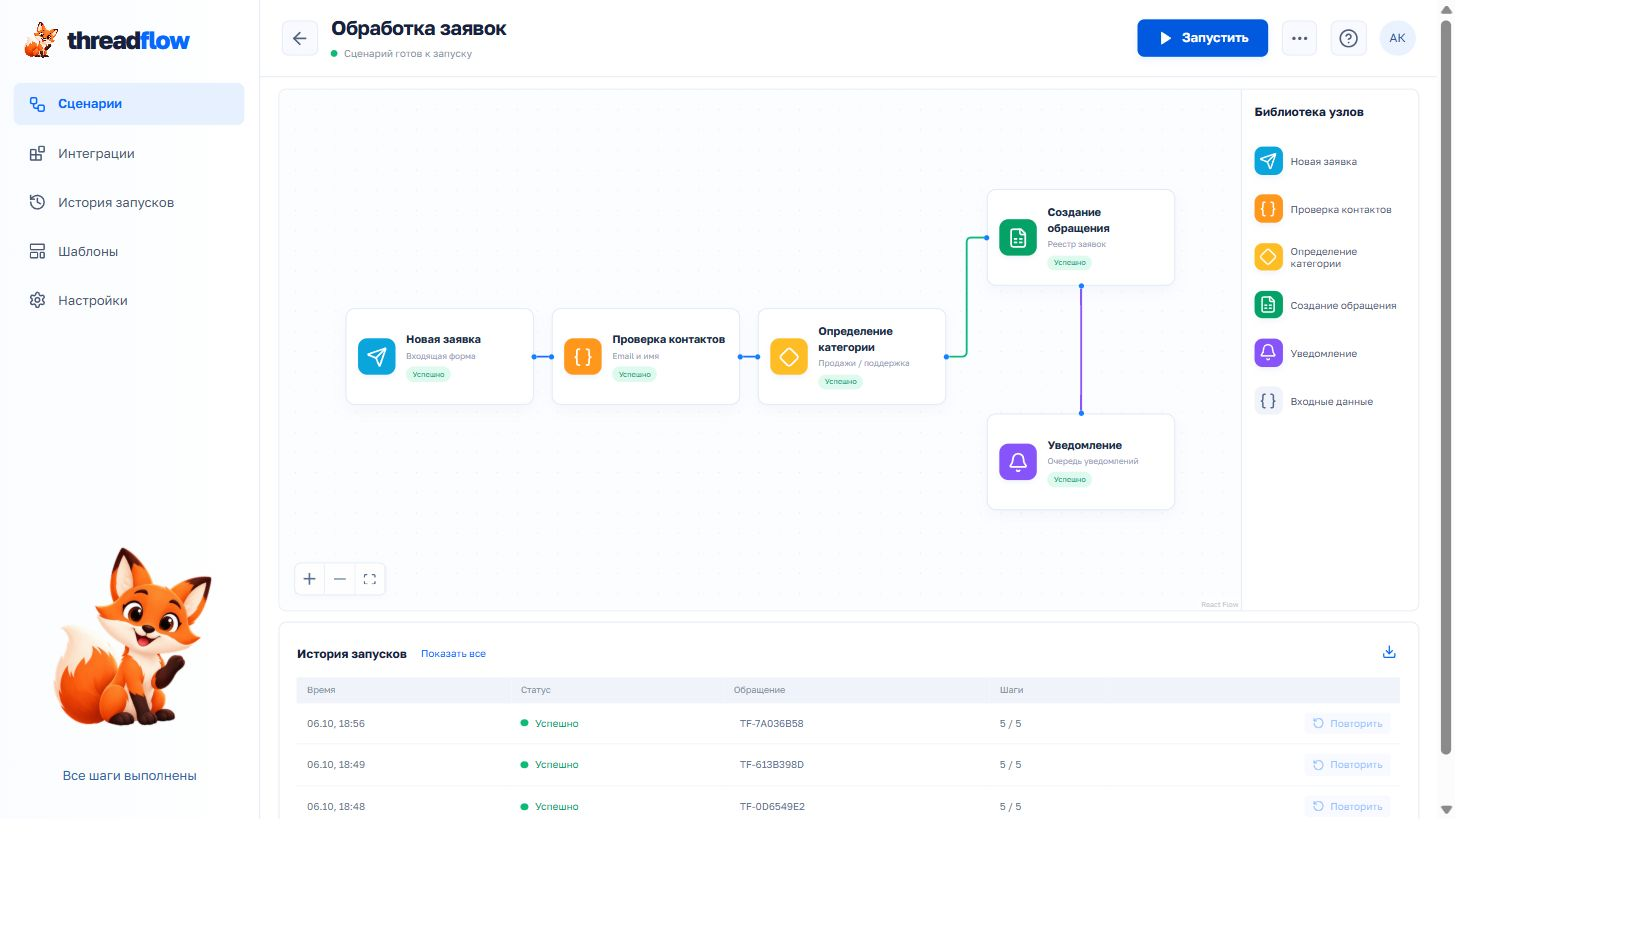
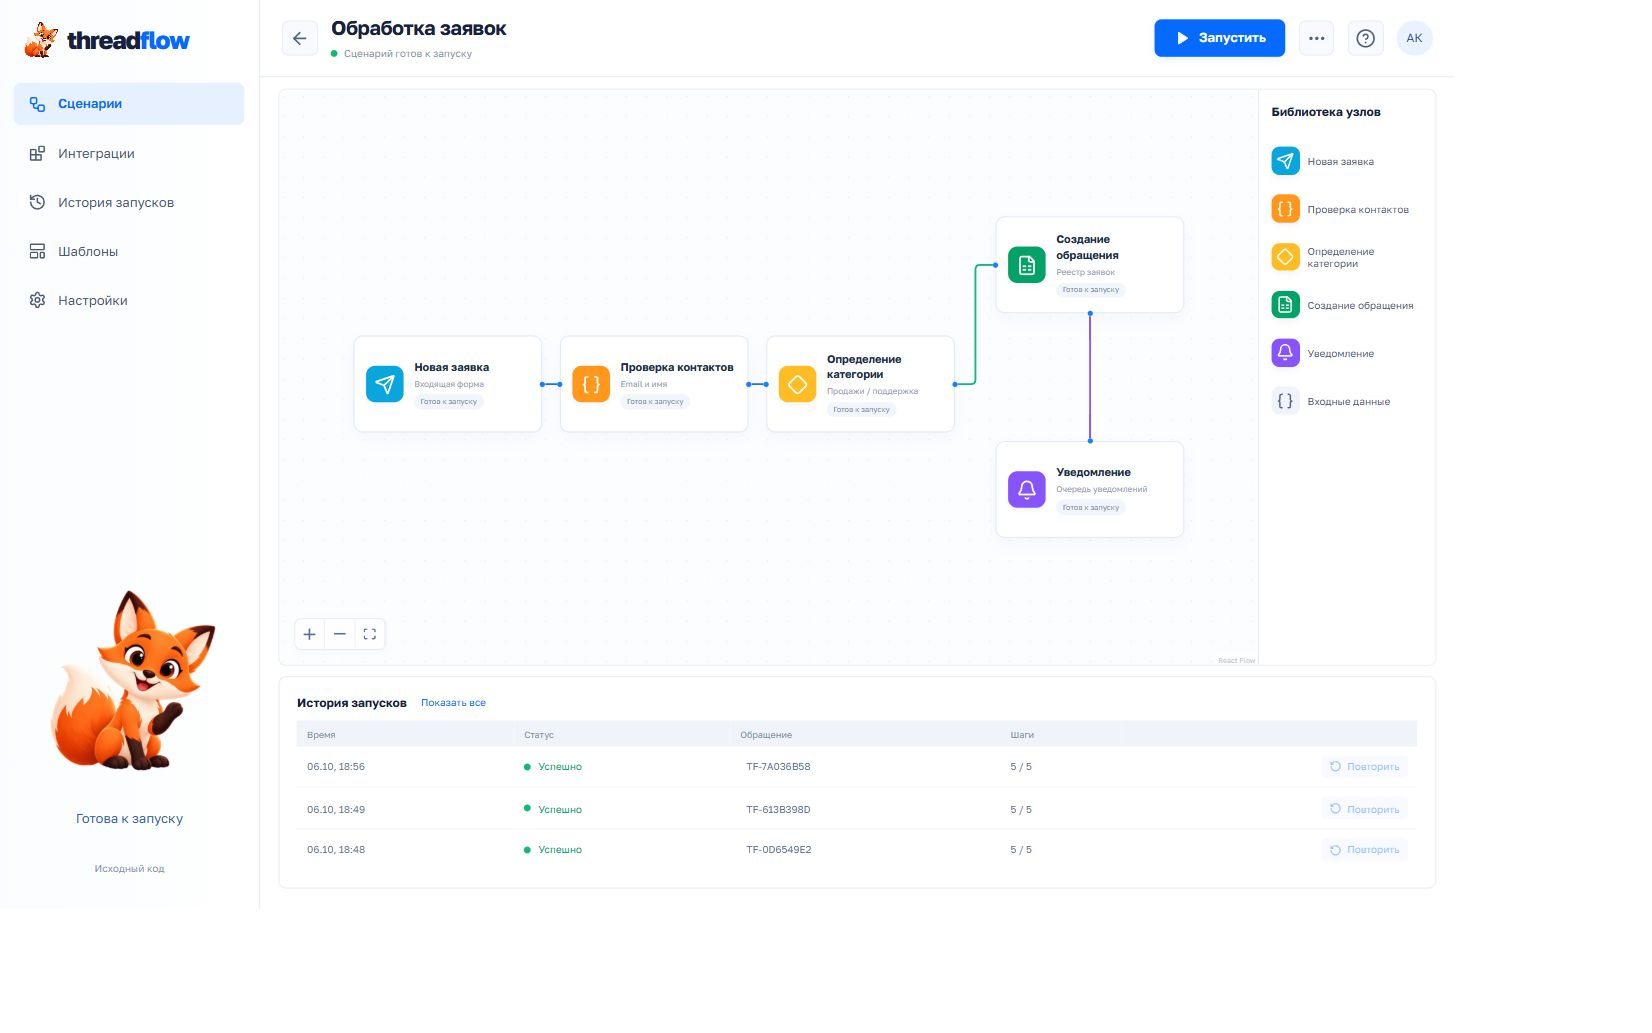
Improve project documentation and refresh clean interface previews

diff --git a/src/styles.css b/src/styles.css
@@ -3,3 +3,5 @@
 @media(min-width:1450px){.tf-editor{min-height:520px}.canvas{min-height:520px}.tf-main{padding:0 18px 20px}.tf-header{margin:0 -18px}.history-panel{padding:18px}}@media(max-width:1050px){.tf-app{grid-template-columns:170px 1fr}.tf-side{padding:20px 10px}.brand{font-size:22px}.brand img{width:28px;height:30px}.tf-editor{grid-template-columns:minmax(0,1fr) 145px}.node-library{padding:13px 8px}.node-library h2{font-size:10px}.tf-header{padding:0 14px}.scenario-title h1{font-size:17px}.avatar{display:none}.mascot img{width:135px}.primary{padding:11px 15px}.library-item{font-size:9px}}@media(max-width:700px){.tf-app{display:block}.tf-side{width:100%;padding:12px;border-right:0;border-bottom:1px solid var(--line);flex-direction:row;align-items:center;gap:12px}.brand{font-size:19px;padding:0;letter-spacing:-.8px}.brand img{height:27px;width:25px;margin-right:5px}.tf-side nav{display:flex;gap:4px;margin-left:auto}.tf-side nav button{padding:8px;font-size:0;gap:0}.tf-side nav button svg{height:16px;width:16px}.mascot,.source-link{display:none}.tf-header{height:76px;gap:7px;padding:0 12px}.scenario-title h1{font-size:15px}.scenario-title span{font-size:8px}.tf-header>.icon:first-child,.tf-header>.icon:nth-last-child(2){display:none}.tf-header .primary{padding:10px;font-size:11px}.tf-main{padding:0 8px 10px}.tf-header{margin:0 -8px}.tf-editor{grid-template-columns:1fr;min-height:450px}.canvas{height:450px;min-height:450px}.node-library{display:none}.history-panel{padding:12px 8px}.history-heading h2{font-size:11px}th,td{padding:8px 5px;font-size:8px}.retry{font-size:0;padding:6px}.retry svg{width:12px}.history-heading button{font-size:9px}}@media(prefers-reduced-motion:reduce){*{transition:none!important;animation:none!important;scroll-behavior:auto!important}}
 
 @media(min-width:1150px){.tf-app{grid-template-columns:min(18vw,260px) minmax(0,1fr)}.tf-side nav button{font-size:13px}.mascot img{width:180px;height:225px}}
+
+html[data-preview],html[data-preview] *{scrollbar-width:none!important}html[data-preview]::-webkit-scrollbar,html[data-preview] *::-webkit-scrollbar{display:none!important}

diff --git a/src/main.tsx b/src/main.tsx
@@ -1,1 +1,1 @@
-import React from 'react';import {createRoot} from 'react-dom/client';import App from './App';import './styles.css';createRoot(document.getElementById('root')!).render(<React.StrictMode><App/></React.StrictMode>);
+import React from 'react';import {createRoot} from 'react-dom/client';import App from './App';import './styles.css';if(new URLSearchParams(window.location.search).has('preview'))document.documentElement.setAttribute('data-preview','');createRoot(document.getElementById('root')!).render(<React.StrictMode><App/></React.StrictMode>);

diff --git a/README.md b/README.md
@@ -1,59 +1,50 @@
 # Threadflow
 
-Executable workflow canvas with durable step results, retries and idempotent business effects.
+Обработка входящих заявок с наглядной схемой и историей запусков. Сервис проверяет контакты, определяет категорию, создаёт обращение и ставит уведомление в локальную очередь.
 
-![Interface](docs/preview.png)
+[![Проверки](https://github.com/famelikolbut5/threadflow/actions/workflows/ci.yml/badge.svg)](https://github.com/famelikolbut5/threadflow/actions/workflows/ci.yml)
 
-[Validation notes](docs/VALIDATION.md) · [Source license](LICENSE)
+![Интерфейс Threadflow](docs/preview.png)
 
-## What it does
+## Возможности
 
-Форма - проверка контактов - категория - обращение в SQLite - локальный outbox. Повтор сбойного шага не создаёт дублей.
+- Входящая форма с именем, email и текстом заявки.
+- Схема из пяти шагов со статусом каждого этапа.
+- Сохранение обращений и результатов выполнения в SQLite.
+- Повтор после сбоя без второго обращения и дублирующего уведомления.
 
-Form - validation - rule classification - SQLite ticket - local notification outbox. Failed steps resume without duplicating tickets.
+## Как устроен проект
 
-Independent portfolio demo, written from scratch. Synthetic examples only. No commercial source, proprietary prompts, client recordings or customer data.
+Результаты шагов сохраняются отдельно. Если отправка уведомления прерывается, повтор продолжает обработку существующего обращения. Для проверки этого поведения в интерфейсе есть управляемый тестовый сбой.
 
-## Run locally
+**Стек:** Python, FastAPI, SQLite, React, TypeScript, React Flow.
 
-Python 3.12, Node 22 and pnpm 11.19.0:
+## Структура
 
-```sh
-python -m venv .venv
-# Windows: .venv\Scripts\activate
-# Linux/macOS: source .venv/bin/activate
-pip install -r requirements.txt
-pnpm install --frozen-lockfile
-pnpm build
-uvicorn backend.app:app --host 127.0.0.1 --port 8000
+```text
+backend/        выполнение шагов, история и защита от повторов
+src/            интерфейс, состояния и работа с API
+public/         иллюстрация персонажа и статические материалы
+tests/          проверки поведения серверной части
+docs/           запуск, проверки и материалы проекта
+Dockerfile      сборка интерфейса и серверного приложения
+compose.yml     локальный запуск с сохранением данных
 ```
 
-Open http://127.0.0.1:8000. For UI development: `pnpm dev` (API proxy expects port 8000).
+## Запуск
+
+Нужны Git и Docker. Каждый проект запускается отдельно на порту 8000.
 
 ```sh
+git clone https://github.com/famelikolbut5/threadflow.git
+cd threadflow
 docker compose up --build
 ```
 
-Local-only binding is deliberate. These demos have no user authentication and are not hardened multi-user hosted services.
+Откройте [localhost:8000](http://localhost:8000). [Запуск без Docker и настройки](docs/RUNNING.md).
 
-## Checks and delivery
+## Состав демоверсии
 
-```sh
-pip install pytest httpx
-pytest -q
-pnpm build
-```
+Уведомления сохраняются в локальной очереди outbox. Сценарий состоит из пяти фиксированных шагов; блоки на холсте можно перемещать для удобства просмотра.
 
-GitHub Actions runs backend checks, TypeScript/build checks and Docker image build. Model credentials are never included in CI or a public image.
-
-## Boundaries
-
-Порядок обработки фиксирован. Холст позволяет перемещать блоки. Внешняя доставка уведомлений не настроена.
-
-The full application runs locally with its Python backend. A static build alone cannot transcribe audio, execute workflows, render video or call Codex.
-
-## Stack and attribution
-
-Python / FastAPI / React / TypeScript / Vite / Motion / Lucide. React Flow powers the editable workflow canvas. Google Fonts: Golos Text (SIL OFL). All third-party dependencies retain their own licenses. See `THIRD_PARTY.md`.
-
-MIT for independently authored source. Asset provenance and actual validation: `docs/VALIDATION.md`.
+[Проверки и результаты](docs/VALIDATION.md) | [Лицензии зависимостей и материалов](THIRD_PARTY.md) | [MIT](LICENSE)

diff --git a/docs/VALIDATION.md b/docs/VALIDATION.md
@@ -1,13 +1,20 @@
-# Validation - 2026-10-06
+# Проверки
 
-Windows / Python 3.12 / Node 22 / pnpm 11.19.0. TypeScript checks and production builds passed locally.
-All examples use synthetic data. Local tests do not imply successful hosted CI or quality on real customer data.
+Проверено 6 октября 2026 на Windows: Python 3.12, Node.js 22 и pnpm 11.19.0.
 
-3 tests passed. Covers same-request replay, conflicting idempotency payload, invalid contact, failed notification retry and exactly one ticket/notification after repeated retries. Notifications are local records, not delivered to external systems.
+## Функциональность
 
-Docker image built and started locally as a non-root user. Static UI and health endpoint returned successfully. A container request failed at notification, retry completed it, and the run history contained exactly one run.
+- 3 серверных теста: повтор того же запроса, конфликт содержимого с тем же ключом, неверный контакт и восстановление после сбоя уведомления.
+- После повторных попыток остаются одно обращение и одно уведомление.
+- В браузере проверен успешный запуск пяти шагов и повтор сценария после управляемого сбоя.
+- Очередь уведомлений локальная; отправка во внешний сервис не тестировалась и не заявлена.
 
-## Selected interface verification
+## Сборка и запуск
 
-Final TypeScript/Vite build passed. Browser review at measured 1454 × 818 desktop and 443 px mobile width found no horizontal page overflow. Escape closes project dialogs. `preview.png` is an actual local application screenshot, not a design mockup.
-A real run completed all 5 steps. A separate run failed at notification; retry completed the same ticket TF-613B398D. The canvas represents this sequential pipeline; it does not claim Telegram/Google Sheets integrations.
+- TypeScript и сборка Vite прошли.
+- Команды Docker Compose из README выполнены: контейнер запустился, API health вернул `ok`, интерфейс доступен на порту 8000.
+- GitHub Actions запускает серверные тесты, проверку TypeScript, сборку интерфейса и Docker-образа. Актуальный результат доступен по значку проверок в README.
+
+## Интерфейс
+
+Превью сделаны с работающего приложения. Проверены ширины 1454 и 443 пикселя: горизонтального переполнения страницы нет. В режиме снимка отсутствуют полосы прокрутки.

diff --git a/docs/RUNNING.md b/docs/RUNNING.md
@@ -1,0 +1,43 @@
+# Запуск и разработка
+
+Для запуска без Docker нужны Python 3.12, Node.js 22 и pnpm 11.19.0. Команды выполняются из корня проекта.
+
+## Windows / PowerShell
+
+```powershell
+python -m venv .venv
+.venv\Scripts\python -m pip install -r requirements.txt
+pnpm install --frozen-lockfile
+pnpm build
+.venv\Scripts\python -m uvicorn backend.app:app --host 127.0.0.1 --port 8000
+```
+
+## Linux / macOS
+
+```sh
+python3 -m venv .venv
+.venv/bin/python -m pip install -r requirements.txt
+pnpm install --frozen-lockfile
+pnpm build
+.venv/bin/python -m uvicorn backend.app:app --host 127.0.0.1 --port 8000
+```
+
+Интерфейс доступен по адресу http://localhost:8000. Для разработки интерфейса запустите `pnpm dev` в отдельном терминале; API должен продолжать работать на порту 8000.
+
+## Проверки
+
+```sh
+python -m pip install pytest httpx
+python -m pytest -q
+pnpm build
+```
+
+Команды `python` должны использовать созданное виртуальное окружение. GitHub Actions проверяет серверную часть, TypeScript, сборку интерфейса и сборку Docker-образа.
+
+## Данные
+
+Локальные файлы сохраняются в `data/`, которая исключена из Git. Docker Compose подключает эту же папку к контейнеру. На Linux владелец папки должен разрешить запись пользователю контейнера с UID 1000. Приложение предназначено для локального запуска и не содержит авторизации пользователей.
+
+## Снимки интерфейса
+
+Для снимков интерфейса используйте `/?preview`: полосы прокрутки скрыты, прокрутка сохраняется. В обычном режиме полосы доступны.
